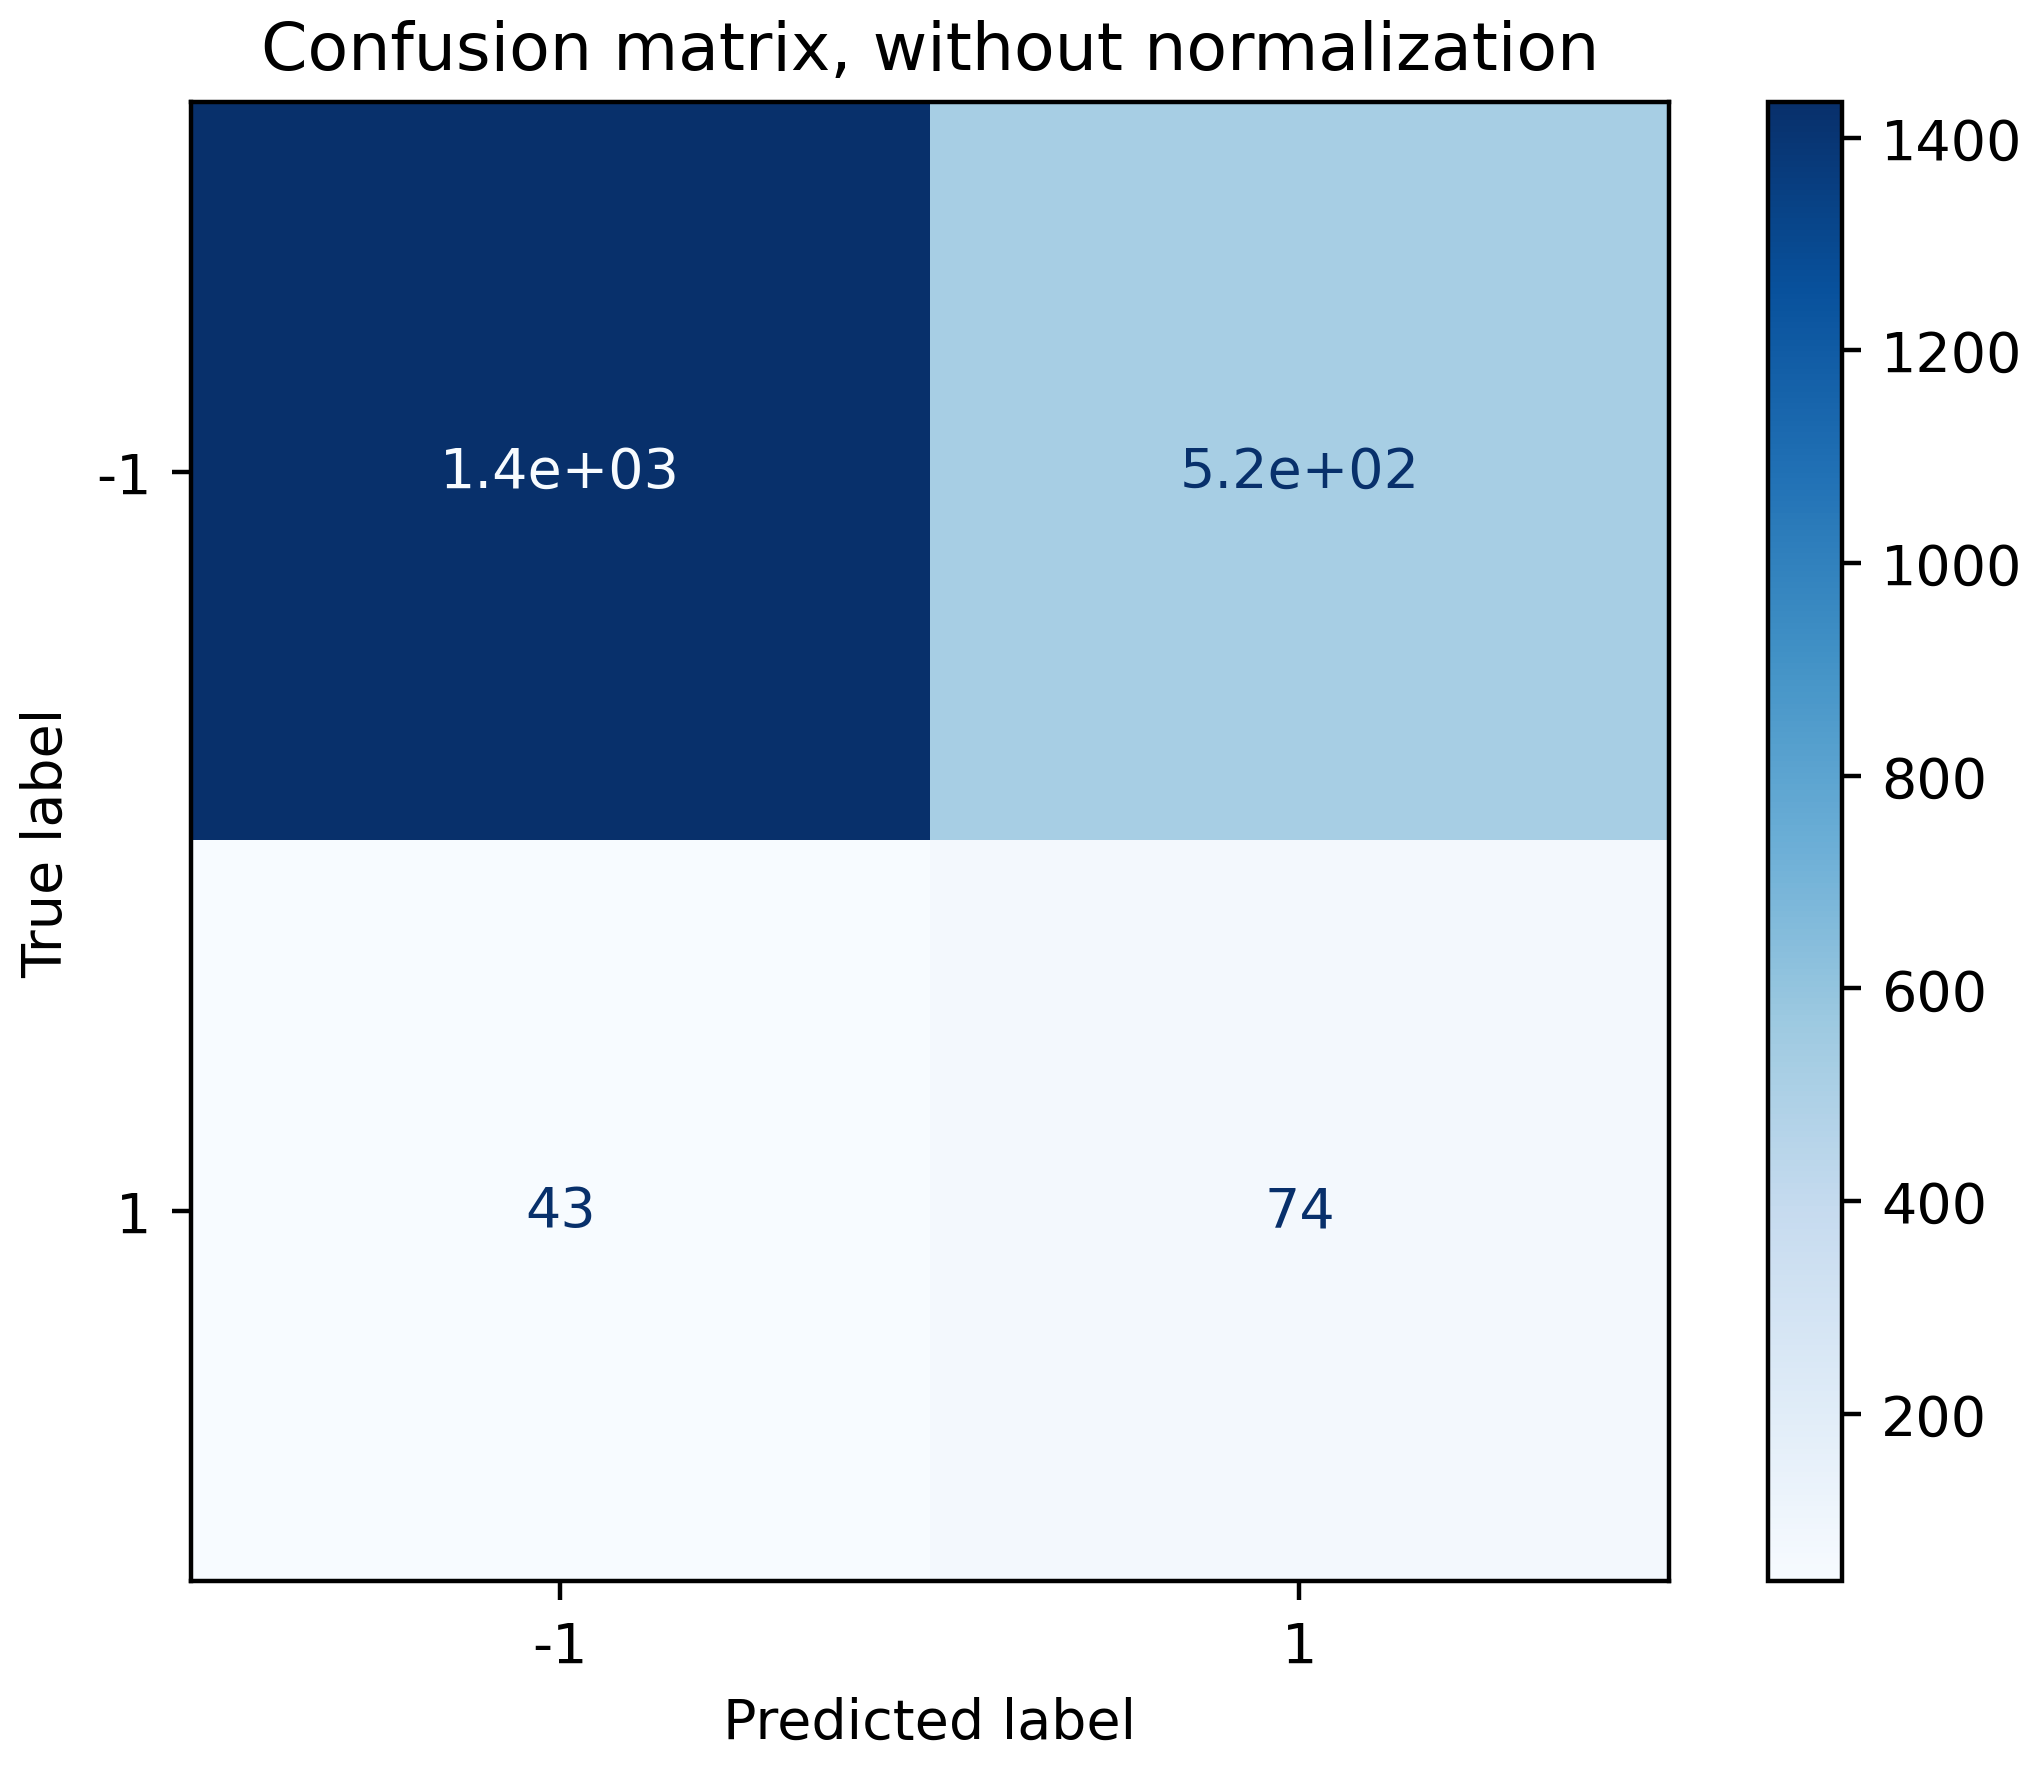
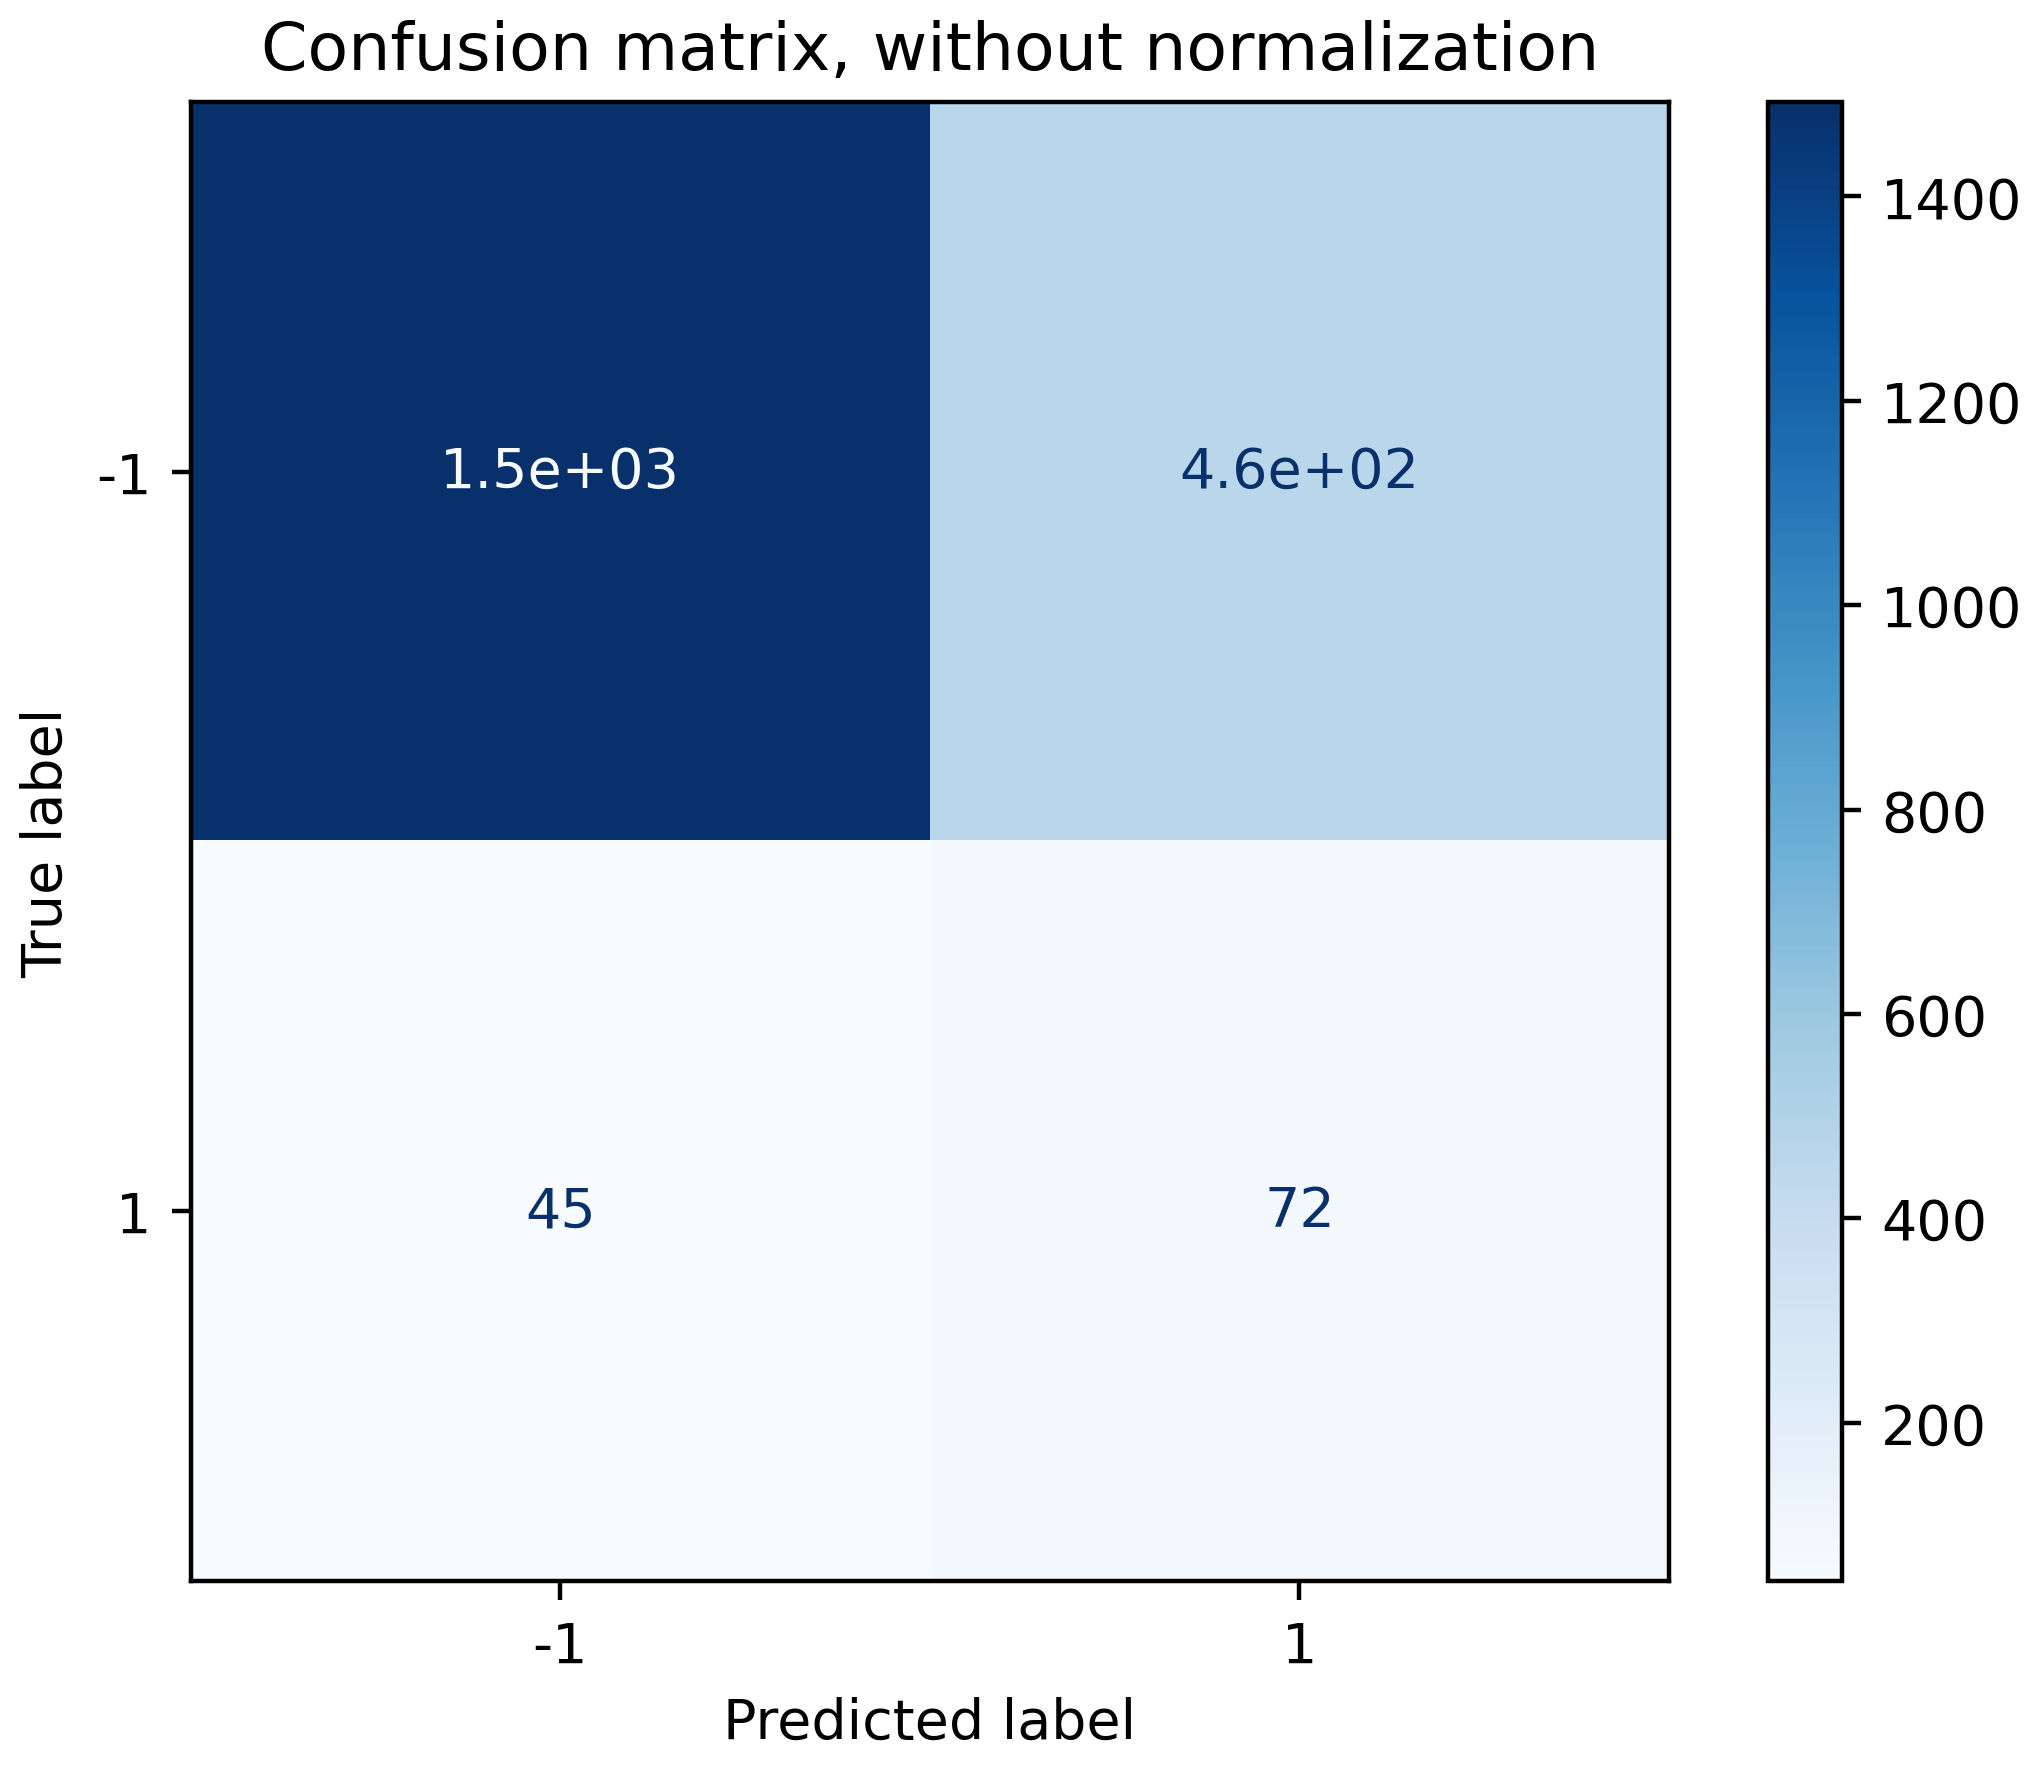
update lg and svm

diff --git a/svm_test.py b/svm_test.py
@@ -1,32 +1,7 @@
-import pandas as pd
-from sklearn.metrics import classification_report, plot_confusion_matrix
-from sklearn.model_selection import train_test_split, GridSearchCV
-from sklearn.svm import SVC
-import matplotlib.pyplot as plt
+from sklearn.model_selection import GridSearchCV, train_test_split
+from sklearn.svm import SVC, LinearSVC
 
-
-train_data_ = pd.read_csv('dataset/train.data', sep='\s+', header=None)
-test_data_ = pd.read_csv('dataset/test.data', sep='\s+', header=None)
-
-train_data_.rename(columns={10: 'target'}, inplace=True)
-test_data_.rename(columns={10: 'target'}, inplace=True)
-
-
-def split_xy(data):
-    _x = data.drop('target', axis=1)
-    _y = data['target']
-    return _x, _y
-
-
-def print_report(clf, x_test, y_real, data_name=None, clf_name=None):
-    if data_name is None:
-        data_name = " " * 10
-    if clf_name is None:
-        data_name = " " * 10
-    print("-" * 20 + f"{data_name}@{clf_name}" + "-" * 20)
-    y_pred = clf.predict(x_test)
-    print(classification_report(y_real, y_pred))
-
+from util import *
 
 # 二分类，逻辑回归
 print(train_data_)
@@ -52,41 +27,54 @@ print_report(svm, x_test, y_test, "train", "svm")
 x_test, y_test = split_xy(test_data_)
 print_report(svm, x_test, y_test, "test", "svm")
 
-# # GridSearchCV 搜索最优 ------------------------------------------------------------------------------
-param_grid = {"C": [0.001, 0.01, 0.1, 1, 10, 100, 1000], "kernel": ['rbf'],
-              'gamma': ['auto']}
-clf = SVC(class_weight='balanced')
-grid_search = GridSearchCV(clf, param_grid=param_grid, cv=5, scoring='f1_macro', n_jobs=-1)
-grid_search.fit(x_train, y_train)
-print(grid_search.best_params_)
-print(grid_search.best_score_)
-print(grid_search.best_estimator_)
-means = grid_search.cv_results_['mean_test_score']
-params = grid_search.cv_results_['params']
-for mean, param in zip(means, params):
-    print("%f  with:   %r" % (mean, param))
+# # GridSearchCV 搜索最优 SVC ------------------------------------------------------------------------------
+# param_grid = {"C": [0.001, 0.01, 0.1, 1, 10, 100, 1000], "kernel": ['rbf'],
+#               'gamma': ['auto']}
+# clf = SVC(class_weight='balanced')
+# grid_search = GridSearchCV(clf, param_grid=param_grid, cv=5, scoring='f1_macro', n_jobs=-1)
+# grid_search.fit(x_train, y_train)
+# print(grid_search.best_params_)
+# print(grid_search.best_score_)
+# print(grid_search.best_estimator_)
+# means = grid_search.cv_results_['mean_test_score']
+# params = grid_search.cv_results_['params']
+# for mean, param in zip(means, params):
+#     print("%f  with:   %r" % (mean, param))
 
 
 # ------------------------------------------------------------
 svm = SVC(C=0.01, kernel='rbf', class_weight='balanced', gamma='auto')
 svm.fit(x_train, y_train)
 
-svm.fit(x_train, y_train)
 print_report(svm, x_test, y_test, "train", "svm-best", )
 
 x_test, y_test = split_xy(test_data_)
 print_report(svm, x_test, y_test, "test", "svm-best")
 
-titles_options = [("Confusion matrix, without normalization","confus_mat.png", None),
-                  ("Normalized confusion matrix","confus_mat-norm.png", 'true')]
-for title, file_name, normalize in titles_options:
-    disp = plot_confusion_matrix(svm, x_test, y_test,
-                                 display_labels=[-1,1],
-                                 cmap=plt.cm.Blues,
-                                 normalize=normalize)
-    disp.ax_.set_title(title)
+plot_mat(svm, x_test, y_test, "svm")
+print_latex(svm, x_test, y_test, "svm")
 
-    print(title)
-    print(disp.confusion_matrix)
-    plt.savefig(f'svm_{file_name}', bbox_inches='tight', dpi=400, pad_inches=0.05)
+# # GridSearchCV 搜索最优 LinearSVC ------------------------------------------------------------------------------
+# param_grid = {"C": [0.001, 0.01, 0.1, 1, 10, 100, 1000]}
+# clf = LinearSVC(class_weight='balanced')
+# grid_search = GridSearchCV(clf, param_grid=param_grid, cv=5, scoring='f1_macro', n_jobs=-1)
+# grid_search.fit(x_train, y_train)
+# print(grid_search.best_params_)
+# print(grid_search.best_score_)
+# print(grid_search.best_estimator_)
+# means = grid_search.cv_results_['mean_test_score']
+# params = grid_search.cv_results_['params']
+# for mean, param in zip(means, params):
+#     print("%f  with:   %r" % (mean, param))
 
+# ------------------------------------------------------------
+svm = LinearSVC(C=10, class_weight='balanced')
+svm.fit(x_train, y_train)
+
+print_report(svm, x_test, y_test, "train", "LinearSVC-best", )
+
+x_test, y_test = split_xy(test_data_)
+print_report(svm, x_test, y_test, "test", "LinearSVC-best")
+
+plot_mat(svm, x_test, y_test, "LinearSVC")
+print_latex(svm, x_test, y_test, "LinearSVC")

diff --git a/LR_test.py b/LR_test.py
@@ -1,31 +1,7 @@
-import pandas as pd
 from sklearn.linear_model import LogisticRegression
-from sklearn.metrics import classification_report,plot_confusion_matrix
-from sklearn.model_selection import train_test_split, GridSearchCV
-import matplotlib.pyplot as plt
+from sklearn.model_selection import GridSearchCV, train_test_split
 
-train_data_ = pd.read_csv('dataset/train.data', sep='\s+', header=None)
-test_data_ = pd.read_csv('dataset/test.data', sep='\s+', header=None)
-
-train_data_.rename(columns={10: 'target'}, inplace=True)
-test_data_.rename(columns={10: 'target'}, inplace=True)
-
-
-def split_xy(data):
-    _x = data.drop('target', axis=1)
-    _y = data['target']
-    return _x, _y
-
-
-def print_report(clf, x_test, y_real, data_name=None, clf_name=None):
-    if data_name is None:
-        data_name = " " * 10
-    if clf_name is None:
-        data_name = " " * 10
-    print("-" * 20 + f"{data_name}@{clf_name}" + "-" * 20)
-    y_pred = clf.predict(x_test)
-    print(classification_report(y_real, y_pred))
-
+from util import *
 
 # 二分类，逻辑回归
 print(train_data_)
@@ -53,19 +29,19 @@ print_report(lg, x_test, y_test, "train", "lg", )
 x_test, y_test = split_xy(test_data_)
 print_report(lg, x_test, y_test, "test", "lg")
 
-# GridSearchCV 搜索最优 ------------------------------------------------------------------------------
-param_grid = {"C": [0.001, 0.01, 0.1, 1, 10, 100, 1000], "penalty": ['l1', 'l2']}
-lg = LogisticRegression(class_weight='balanced', solver='liblinear',
-                        n_jobs=-1)
-grid_search = GridSearchCV(lg, param_grid=param_grid, cv=5, scoring='f1_macro')
-grid_search.fit(x_train, y_train)
-print(grid_search.best_params_)
-print(grid_search.best_score_)
-print(grid_search.best_estimator_)
-means = grid_search.cv_results_['mean_test_score']
-params = grid_search.cv_results_['params']
-for mean, param in zip(means, params):
-    print("%f  with:   %r" % (mean, param))
+# # GridSearchCV 搜索最优 ------------------------------------------------------------------------------
+# param_grid = {"C": [0.001, 0.01, 0.1, 1, 10, 100, 1000], "penalty": ['l1', 'l2']}
+# lg = LogisticRegression(class_weight='balanced', solver='liblinear',
+#                         n_jobs=-1)
+# grid_search = GridSearchCV(lg, param_grid=param_grid, cv=5, scoring='f1_macro')
+# grid_search.fit(x_train, y_train)
+# print(grid_search.best_params_)
+# print(grid_search.best_score_)
+# print(grid_search.best_estimator_)
+# means = grid_search.cv_results_['mean_test_score']
+# params = grid_search.cv_results_['params']
+# for mean, param in zip(means, params):
+#     print("%f  with:   %r" % (mean, param))
 
 # 最优结果
 """{'C': 0.01, 'penalty': 'l1'}
@@ -84,6 +60,7 @@ print_report(lg, x_test, y_test, "train", "lg-best", )
 
 x_test, y_test = split_xy(test_data_)
 print_report(lg, x_test, y_test, "test", "lg-best")
+print_latex(lg, x_test, y_test)
 """
 --------------------train@lg-best--------------------
               precision    recall  f1-score   support

diff --git a/util.py b/util.py
@@ -1,0 +1,67 @@
+import pandas as pd
+from sklearn.metrics import classification_report, plot_confusion_matrix, recall_score,precision_score,accuracy_score,f1_score
+import matplotlib.pyplot as plt
+
+train_data_ = pd.read_csv('dataset/train.data', sep='\s+', header=None)
+test_data_ = pd.read_csv('dataset/test.data', sep='\s+', header=None)
+
+train_data_.rename(columns={10: 'target'}, inplace=True)
+test_data_.rename(columns={10: 'target'}, inplace=True)
+
+
+def split_xy(data):
+    _x = data.drop('target', axis=1)
+    _y = data['target']
+    return _x, _y
+
+
+def print_report(clf, x_test, y_real, data_name=None, clf_name=None):
+    if data_name is None:
+        data_name = " " * 10
+    if clf_name is None:
+        data_name = " " * 10
+    print("-" * 20 + f"{data_name}@{clf_name}" + "-" * 20)
+    y_pred = clf.predict(x_test)
+    print(classification_report(y_real, y_pred))
+
+def print_latex(clf, x_test, y_real,caption):
+    y_pred = clf.predict(x_test)
+    p0 = precision_score(y_real,y_pred,average=None,labels=[-1,1])
+    p_a = precision_score(y_real,y_pred,average='macro',labels=[-1,1])
+
+    r0 = recall_score(y_real,y_pred,average=None,labels=[-1,1])
+    r_a = recall_score(y_real,y_pred,average='macro',labels=[-1,1])
+
+    f1_0 = f1_score(y_real,y_pred,average=None,labels=[-1,1])
+    f1_a = f1_score(y_real,y_pred,average='macro',labels=[-1,1])
+
+    str1 =  f'''\\begin{{table}}[!h]
+    \\centering
+    \\renewcommand{{\\arraystretch}}{{1.5}}
+    \\begin{{tabular}}{{|r|c|c|c|}}
+        \\hline
+                  & precision & recall & f1-score \\\\ \\hline
+        -1        &     {p0[0]:.5f}     &     {r0[0]:.5f}   &    {f1_0[0]:.5f}      \\\\ \\hline
+        1         &     {p0[1]:.5f}      &     {r0[1]:.5f}   &   {f1_0[1]:.5f}       \\\\ \\hline
+        macro avg &      {p_a:.5f}     &     {r_a:.5f}   &    {f1_a:.5f}      \\\\ \\hline
+    \end{{tabular}}
+    \caption{{{caption}}}
+\end{{table}}'''
+    print(str1)
+
+
+
+def plot_mat(clf, x_test, y_test, file_prefix):
+    titles_options = [("Confusion matrix, without normalization", "confus_mat.png", None),
+                      ("Normalized confusion matrix", "confus_mat-norm.png", 'true')]
+    for title, file_name, normalize in titles_options:
+        disp = plot_confusion_matrix(clf, x_test, y_test,
+                                     display_labels=[-1, 1],
+                                     cmap=plt.cm.Blues,
+                                     normalize=normalize)
+        disp.ax_.set_title(title)
+
+        print(title)
+        print(disp.confusion_matrix)
+        plt.savefig(f'{file_prefix}_{file_name}', bbox_inches='tight', dpi=400, pad_inches=0.05)
+
